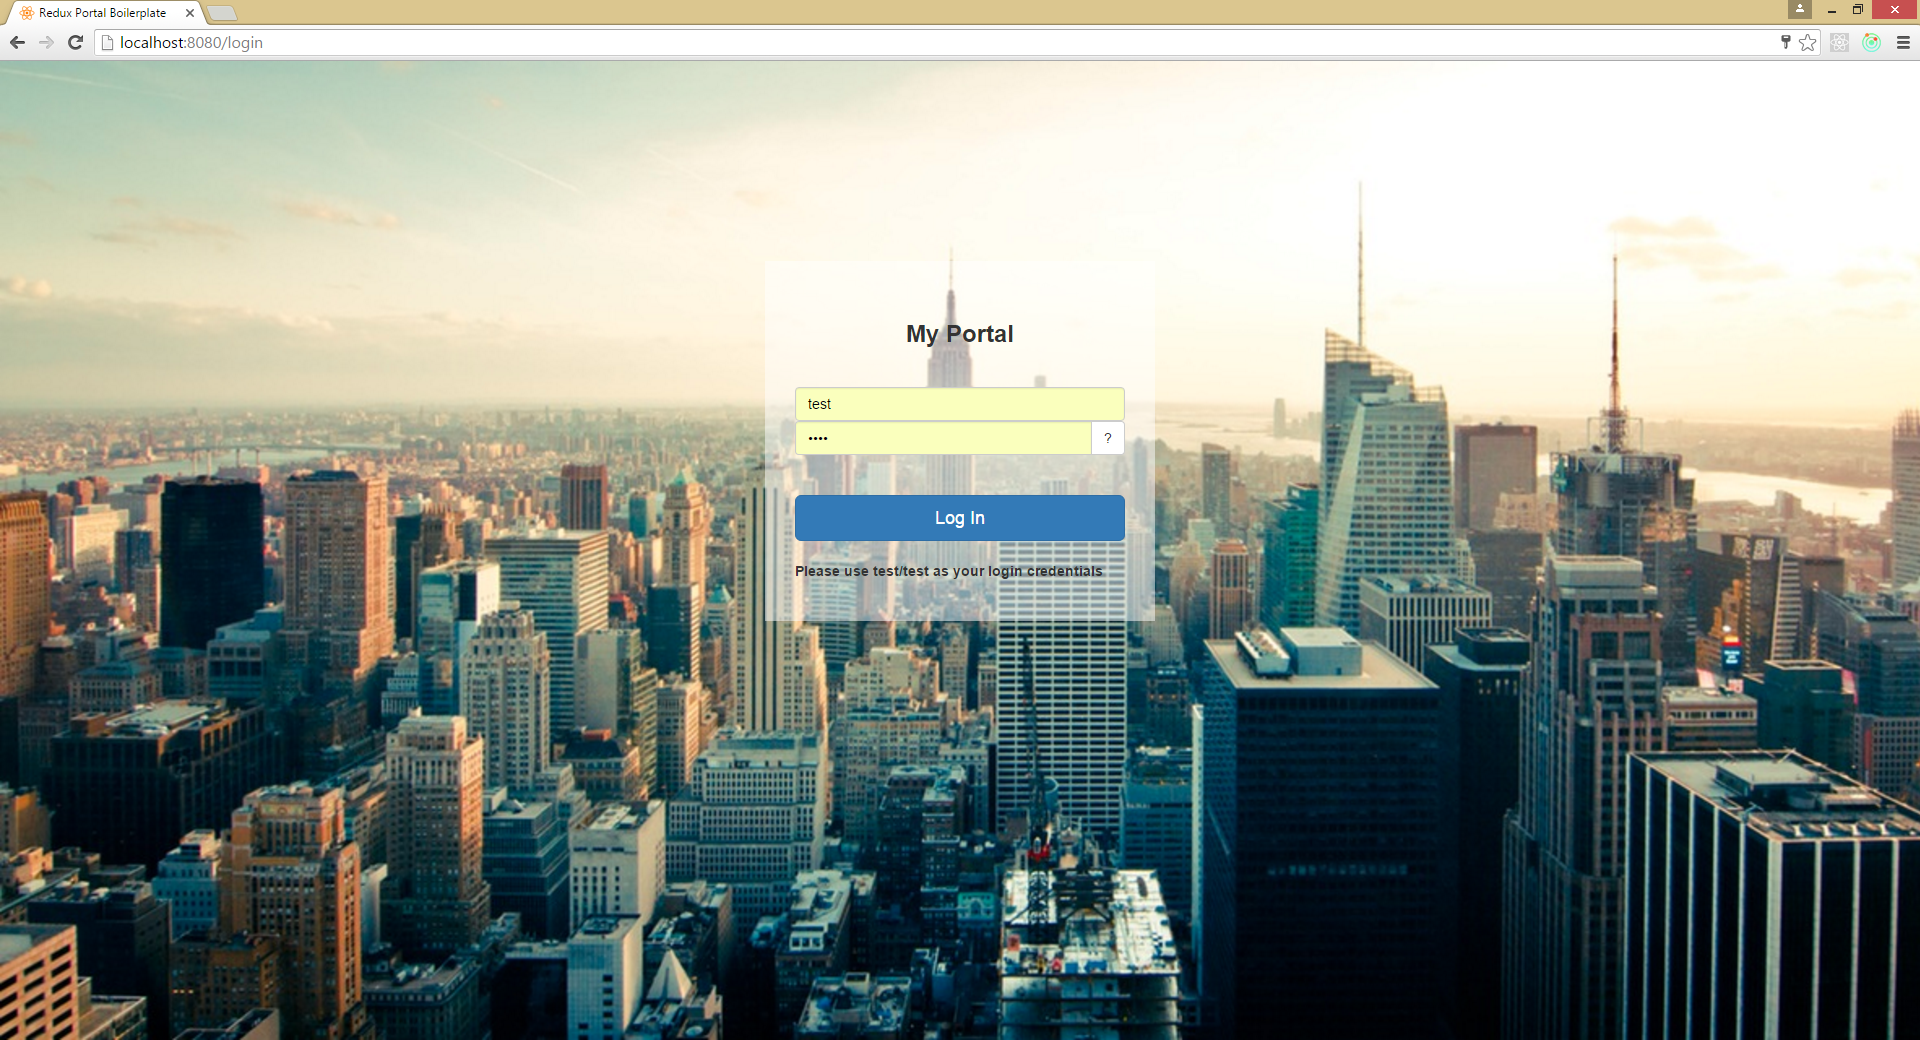
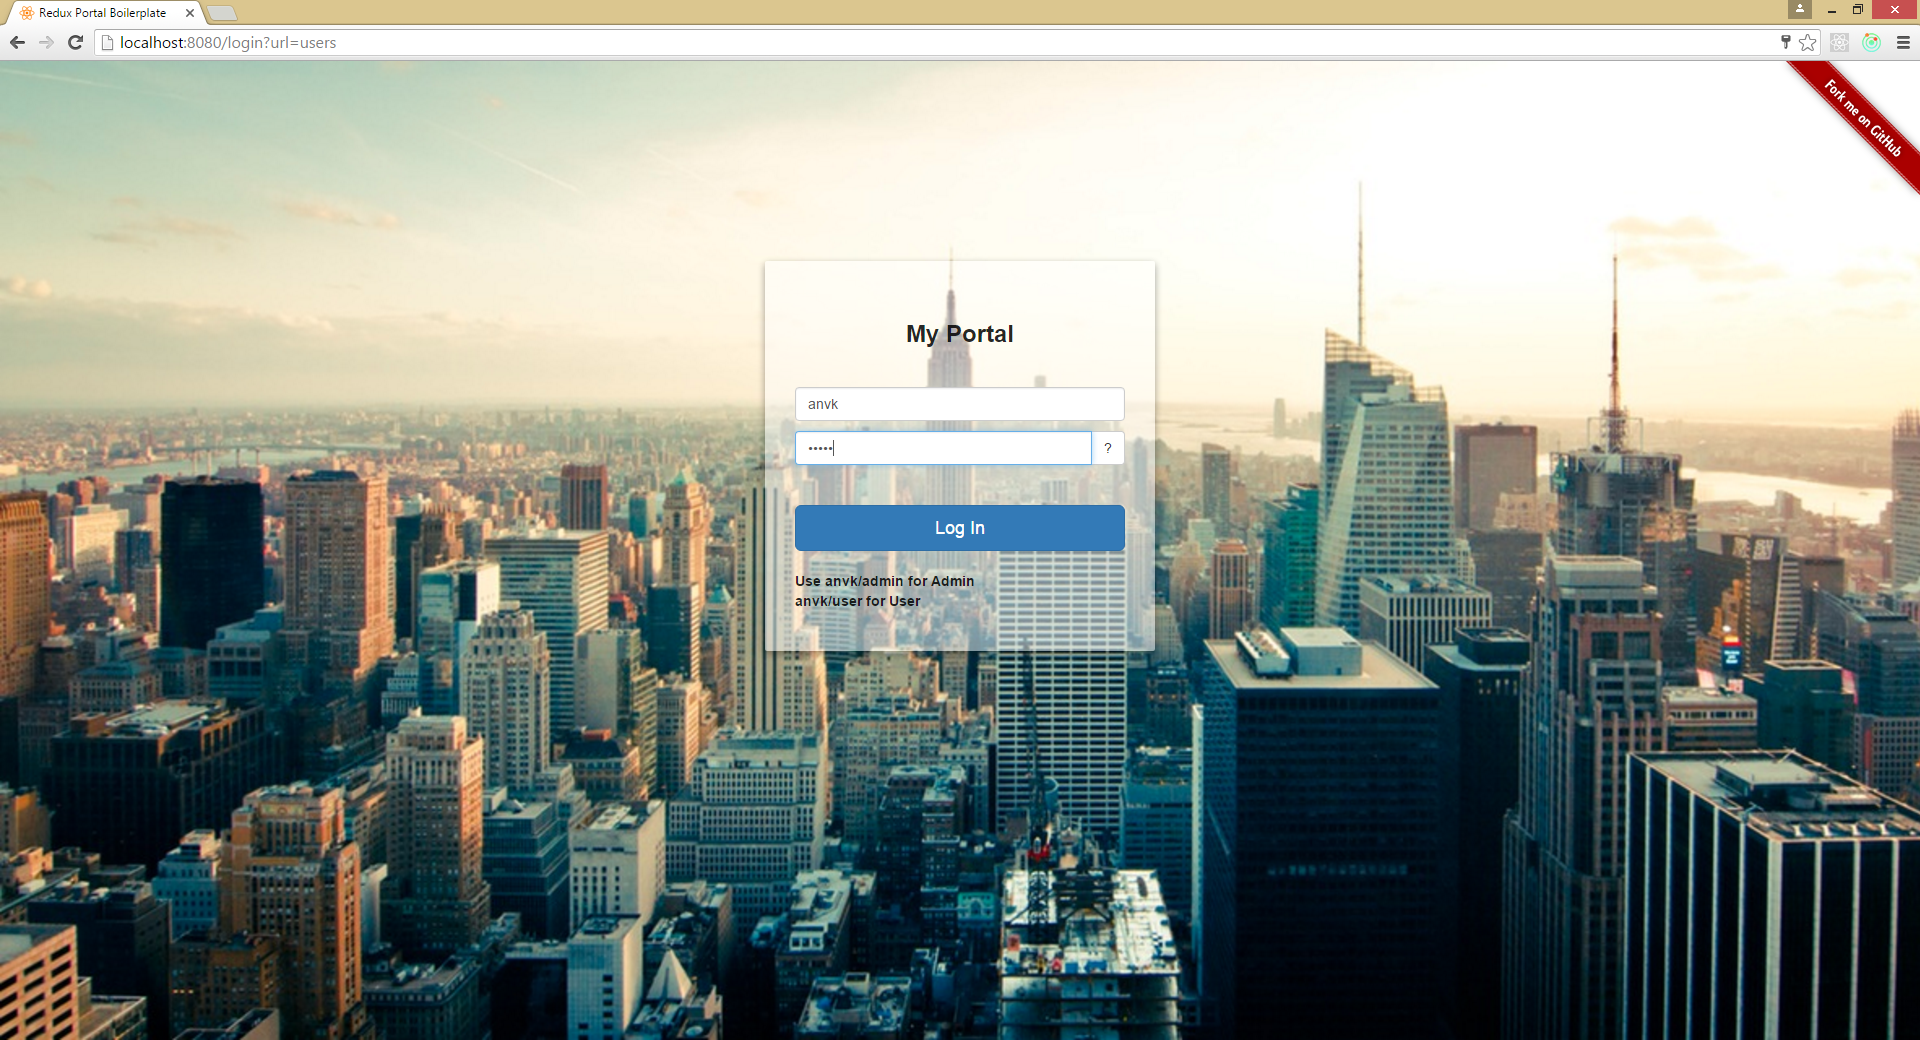
update: updating my screenshots

Changed region(s): [[0.375, 0.3692, 0.625, 0.6462], [0.9375, 0.0615, 1.0, 0.1846]]

diff --git a/src/routes.js b/src/routes.js
@@ -59,13 +59,12 @@ class Routes extends Component {
       return;
     }
     const { location } = nextState;
+    const url = location.pathname.replace(publicPath, '') + location.search;
 
-    const args = params.encode({
-      url: location.pathname.replace(publicPath, '') + location.search
-    });
+    const postFix = url ? `?${params.encode({ url })}` : '';
 
     logout();
-    replace(fixUrl(`${LOGIN_URL}?${args}`));
+    replace(fixUrl(`${LOGIN_URL}${postFix}`));
   };
 
   render() {

diff --git a/src/reducers/loginPage.js b/src/reducers/loginPage.js
@@ -1,8 +1,8 @@
 import * as types from '../constants/actionTypes.js';
 
 const initialState = {
-  email: undefined,
-  password: undefined,
+  email: '',
+  password: '',
   isTryingToLogin: false
 };
 

diff --git a/README.md b/README.md
@@ -6,6 +6,10 @@
 
 ![Screenshot 2](https://github.com/anvk/redux-portal-boilerplate/blob/master/screenshots/2.png)
 
+![Screenshot 3](https://github.com/anvk/redux-portal-boilerplate/blob/master/screenshots/3.png)
+
+![Screenshot 4](https://github.com/anvk/redux-portal-boilerplate/blob/master/screenshots/4.png)
+
 ##Technology Used for This Project
  - [Node](https://nodejs.org/en/)
  - [Webpack](https://webpack.github.io/)
